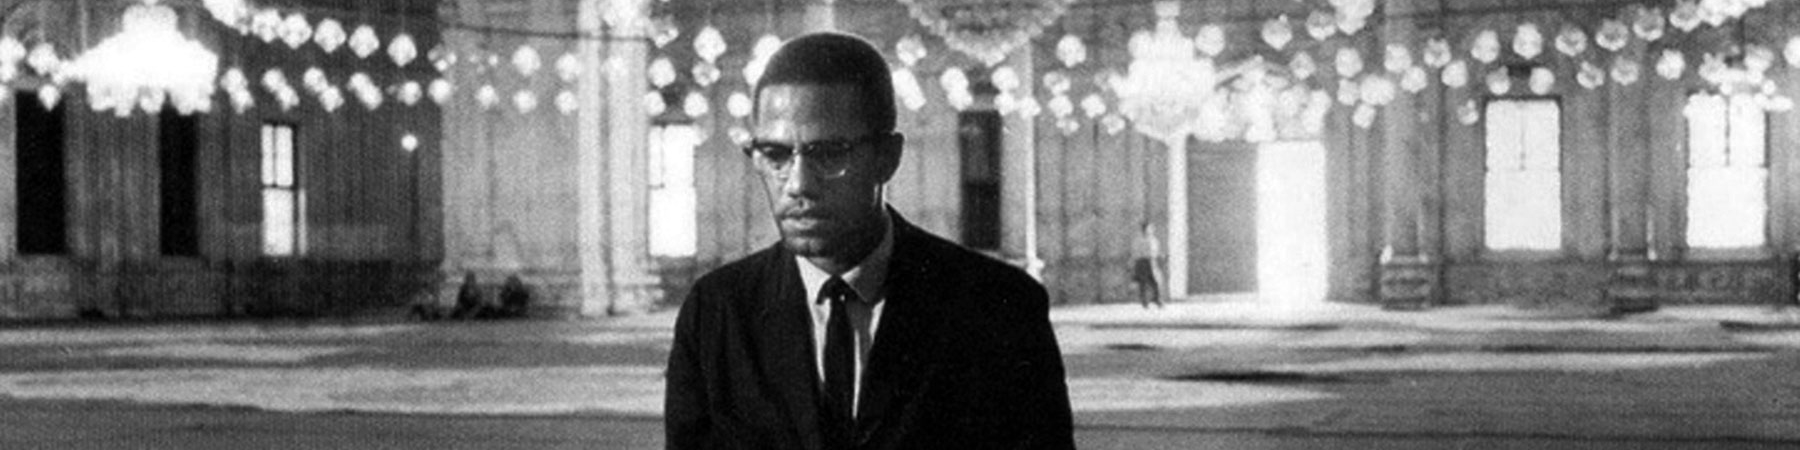
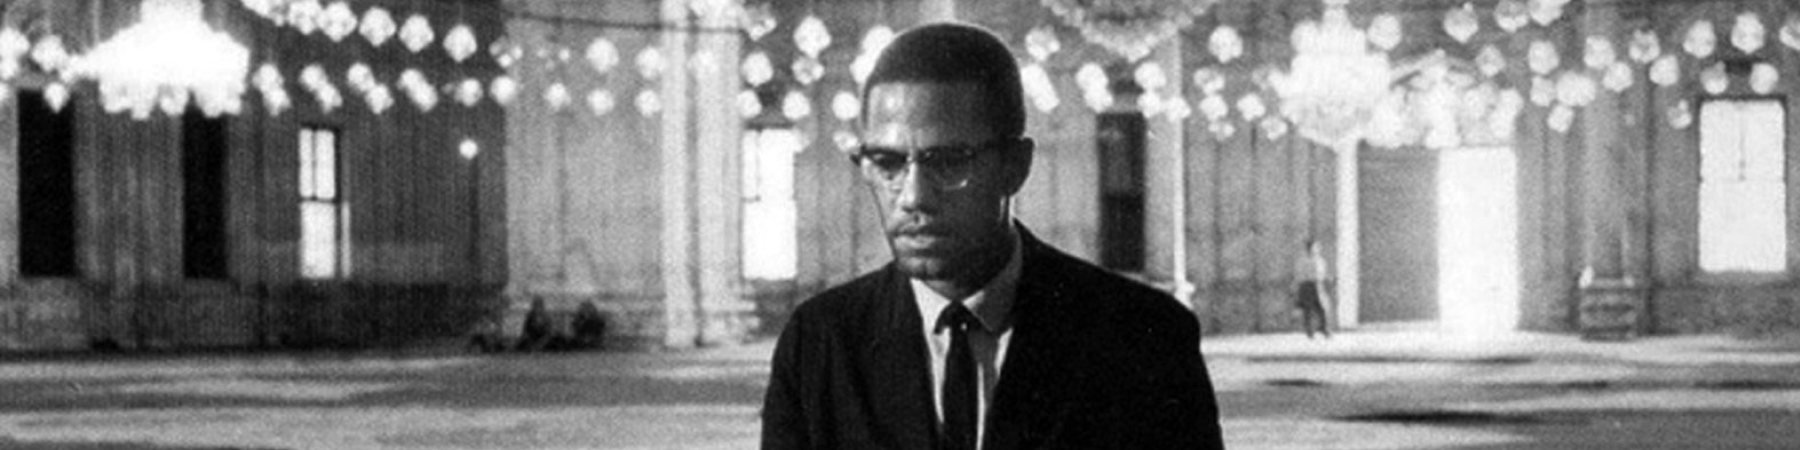
fixed dialogues' hero image

diff --git a/src/styles/_projects.scss b/src/styles/_projects.scss
@@ -516,7 +516,7 @@
 
   // ————————————————————————————————————o————————————————————————————————————o So I Do -->
   // ———————————————————————————————————— So I Do —>
-  &--soido {
+  &--dialogues {
     .hero {
       img {
         bottom: 0;
@@ -533,18 +533,6 @@
           width: auto;
           height: 100%;
         }
-      }
-    }
-
-    .fifty-fifty--flex {
-      gap: 40px;
-    }
-
-    .project-img {
-      margin-bottom: 40px;
-
-      @include bp(mob) {
-        margin: 0;
       }
     }
   }

diff --git a/public/projects/dialogues-on-freedom.html b/public/projects/dialogues-on-freedom.html
@@ -1,4 +1,4 @@
-<main class="project project--soido">
+<main class="project project--dialogues">
   <div
     class="mapboxgl-popup-close-button project-close-button"
     type="button"
